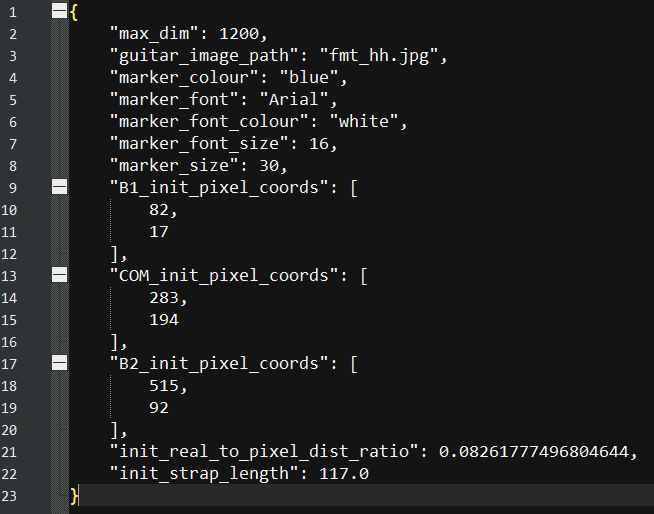
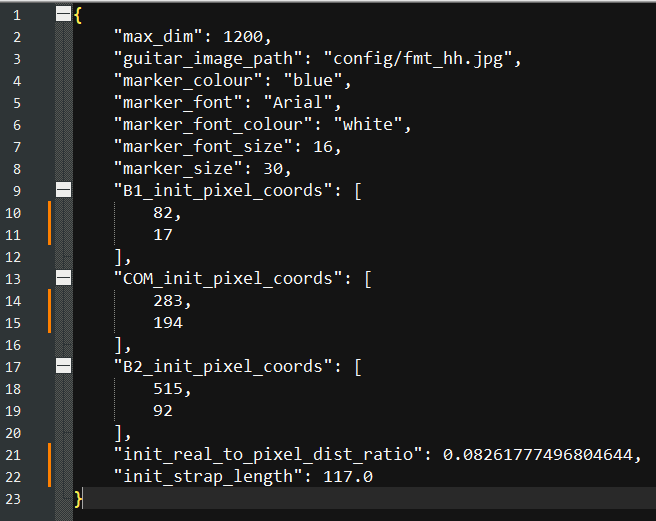
Updating tutorial images re: moving files to config folder.

diff --git a/docs/readme.md b/docs/readme.md
@@ -207,7 +207,7 @@ Now, these are the contents of config.json:
 
 Of course, that was just one quick search, that led to one particular approach. There are other options available, 
 with their own tradeoffs. Play around and get a feel for them. And try it with your own guitar: just copy an image 
-into the project folder, point to it from a new config file, and adjust the parameters as appropriate.
+into the config folder, point to it from a new config file, and adjust the parameters as appropriate.
 
 ## My Motivation for Making This
 
